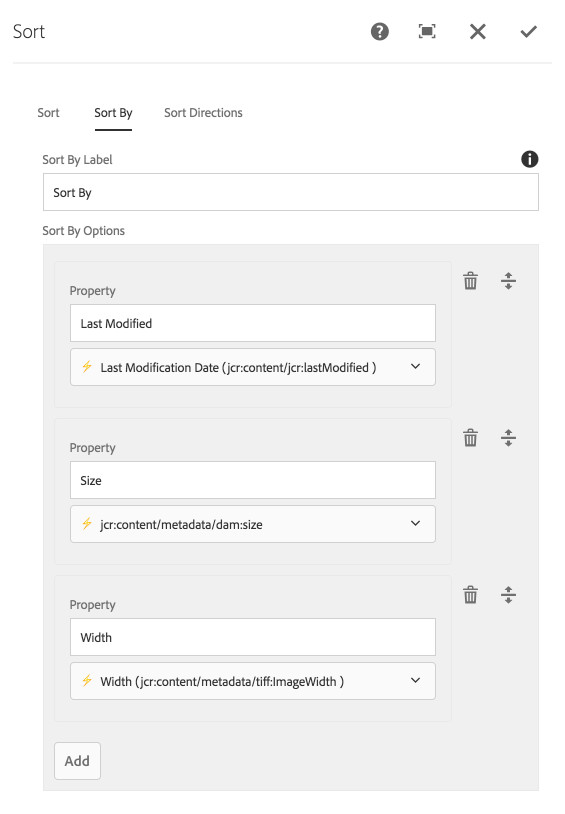
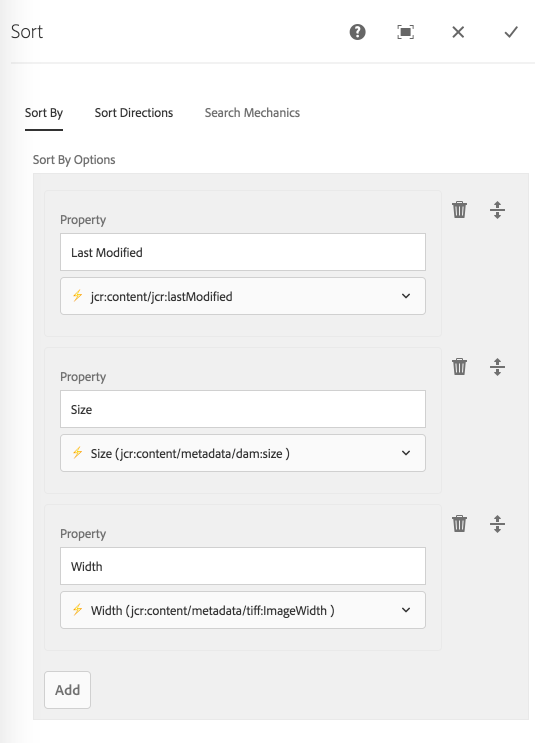
v1.6.4 Release

diff --git a/_pages/search/sort/index.md b/_pages/search/sort/index.md
@@ -2,7 +2,7 @@
 title: Sort
 layout: component-page
 tags: search,component
-last-updated-version: 1.3.0
+last-updated-version: 1.6.4
 --- 
 
 ![Sort component](./images/main.png)
@@ -16,21 +16,9 @@ Only one sort may be applied at a time. For example, this component does NOT sup
 
 Authors may specify all ordering options.
 
-### Dialog / Sort tab 
-
- ![Sort dialog](./images/dialog-sort.png)
-
-#### Auto-Search on Change (v1.3.0)
-
-Select to automatically perform a search whenever the end-user selected filter criteria of this component changes.
-
 ### Dialog / Sort By tab 
  
  ![Sort By dialog](./images/dialog-sort-by.png)
- 
-#### Sort By Label
-
-The initial label to display.
 
 #### Sort By Options
 
@@ -43,10 +31,6 @@ An order-able list of properties that can be sorted by.
 ### Dialog / Sort Directions tab             
 
 ![Sort Direction dialog](./images/dialog-sort-directions.png)
- 
-#### Sort Direction Label
-
-The initial label to display.
 
 #### Ascending Label
 
@@ -55,7 +39,17 @@ The text to display for the "Ascending" sort option.
 #### Descending Label
 
 The text to display for the "Descending" sort option.
-                    
+
+
+### Dialog / Sort Mechanics tab
+
+ ![Sort dialog](./images/dialog-search-mechanics.png)
+
+#### Auto-Search on Change (v1.3.0)
+
+Select to automatically perform a search whenever the end-user selected filter criteria of this component changes.
+
+
 ## Technical details
 
 * **Component**: `/apps/asset-share-commons/components/search/sort`
@@ -69,6 +63,11 @@ Example generated Query Builder orderby predicate output:
 orderby=@jcr:content/jcr:lastModified
 orderby.sort=desc
 ```
+
+### Initial values
+
+v1.6.4 introduces ability for the Sort component to inspect the Search Results component to display true initial values (vs generic labels).
+This means the Sort component should have a Sort By entry that matches the Search Result component's default Sort By property.
 
 ### Sorting property candidates
 

diff --git a/_pages/releases/v1-6-4/index.md b/_pages/releases/v1-6-4/index.md
@@ -1,0 +1,21 @@
+---
+layout: content-page
+title: v1.6.4
+---
+
+### Fixed
+- 0260: Resolves issue with offset not being set.
+- 0255: Removed need for "generic" Sort By and Sort Direction labels; added intelligence to get default values from Search Results component.
+- 0254: HTTP query param sort parameters are not reflected in Sort component
+- 0249: Fixed issue when Search Statistics (or an other component that uses Search model) is placed before the Search components, resutling in 0 results.
+- 0248: Issue with HTTP parameter QB groups and server-side provided (group_3 would mix in with server-side paths)
+- 0227: Sites editor is missing workflow status information
+- 0237: Fixes issue with ContextHub being unloaded after a Form submissions via modals.
+- 0240: Fixed issue with submitted date-range search values lagging behind actual value by one submission.
+- 0231: metadataFieldTypes does not filter data source for Date Range and Tag Filters
+- ????: Updated included Core Components to v2.1.0
+
+## Important upgrade considerations
+
+- The Sort Predicate labels are no longer used. You should ensure that the default sort order specified in the Search Results component has a matching entry in the Sort component (assuming the Sort component is used).
+- Core Components v2.1.0 are now included in Asset Share Commons 1.6.4.
